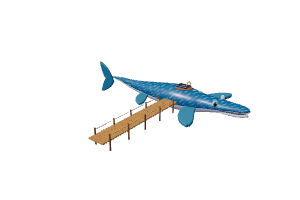
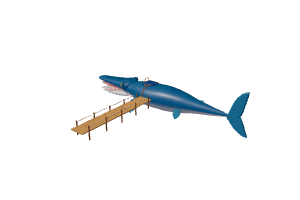
Retain regenerated ocean previews and derive native tests from the live island centre

Changed region(s): [[0.24, 0.3, 0.84, 0.75]]

diff --git a/public/showcase-probe-assets.js b/public/showcase-probe-assets.js
@@ -1,5 +1,5 @@
 // Offline captures of the actual original static mini-biomes.
-export const SHOWCASE_PROBE_REVISION="15a62291def3a1bd";
+export const SHOWCASE_PROBE_REVISION="ecaa8e5bb4b284e8";
 export const SHOWCASE_WATER_PROBES={
   "ride-water-barrel-wave": "./art/water-reflections/barrel-wave-550cf3803519.png",
   "ride-water-canyon-rafting": "./art/water-reflections/canyon-rafting-97773da6ff41.png",
